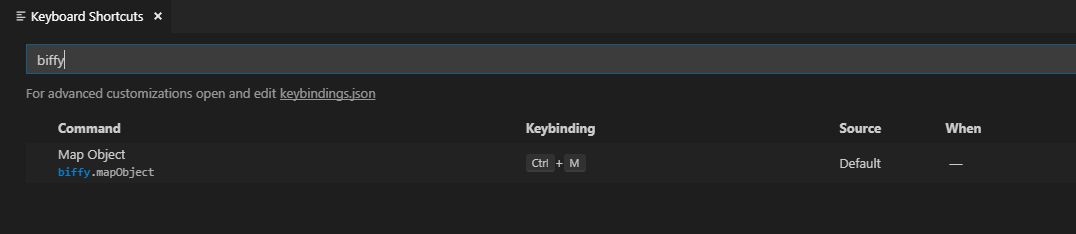
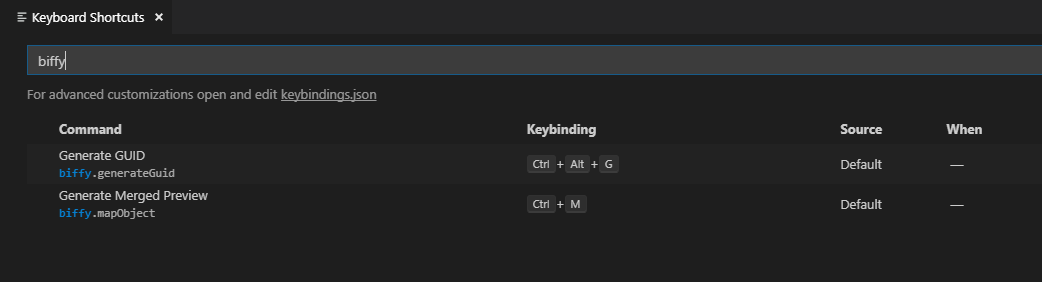
updating readme

diff --git a/README.md b/README.md
@@ -36,6 +36,8 @@ In case the configuration is empty, the current workspace root folder is used to
 ### Key Bindings
 * biffy.mapObject - Generates a merged preview of the current active document.
 Default is `Ctrl + M`
+* biffy.generateGuid - Generate GUIDs.
+Default us `Ctrl + Alt + G`
 
 ![keybindings image](images/keyBindings.png "Key bindings image")
 
@@ -47,14 +49,6 @@ Default is `Ctrl + M`
 4. Open the BIF-Source in the newly opened instance of vscode
 
 > Ensure typescript is installed in global scope. Else run >  `npm install -g typescript`
-
-
-## TODO
-
-* Extending snippets
-* Highlight all occurences of a symbol in a document
-* Renaming symbols
-* ~~Icons for file types~~ [Not supported by vscode]
 
 
 ## Requirements
